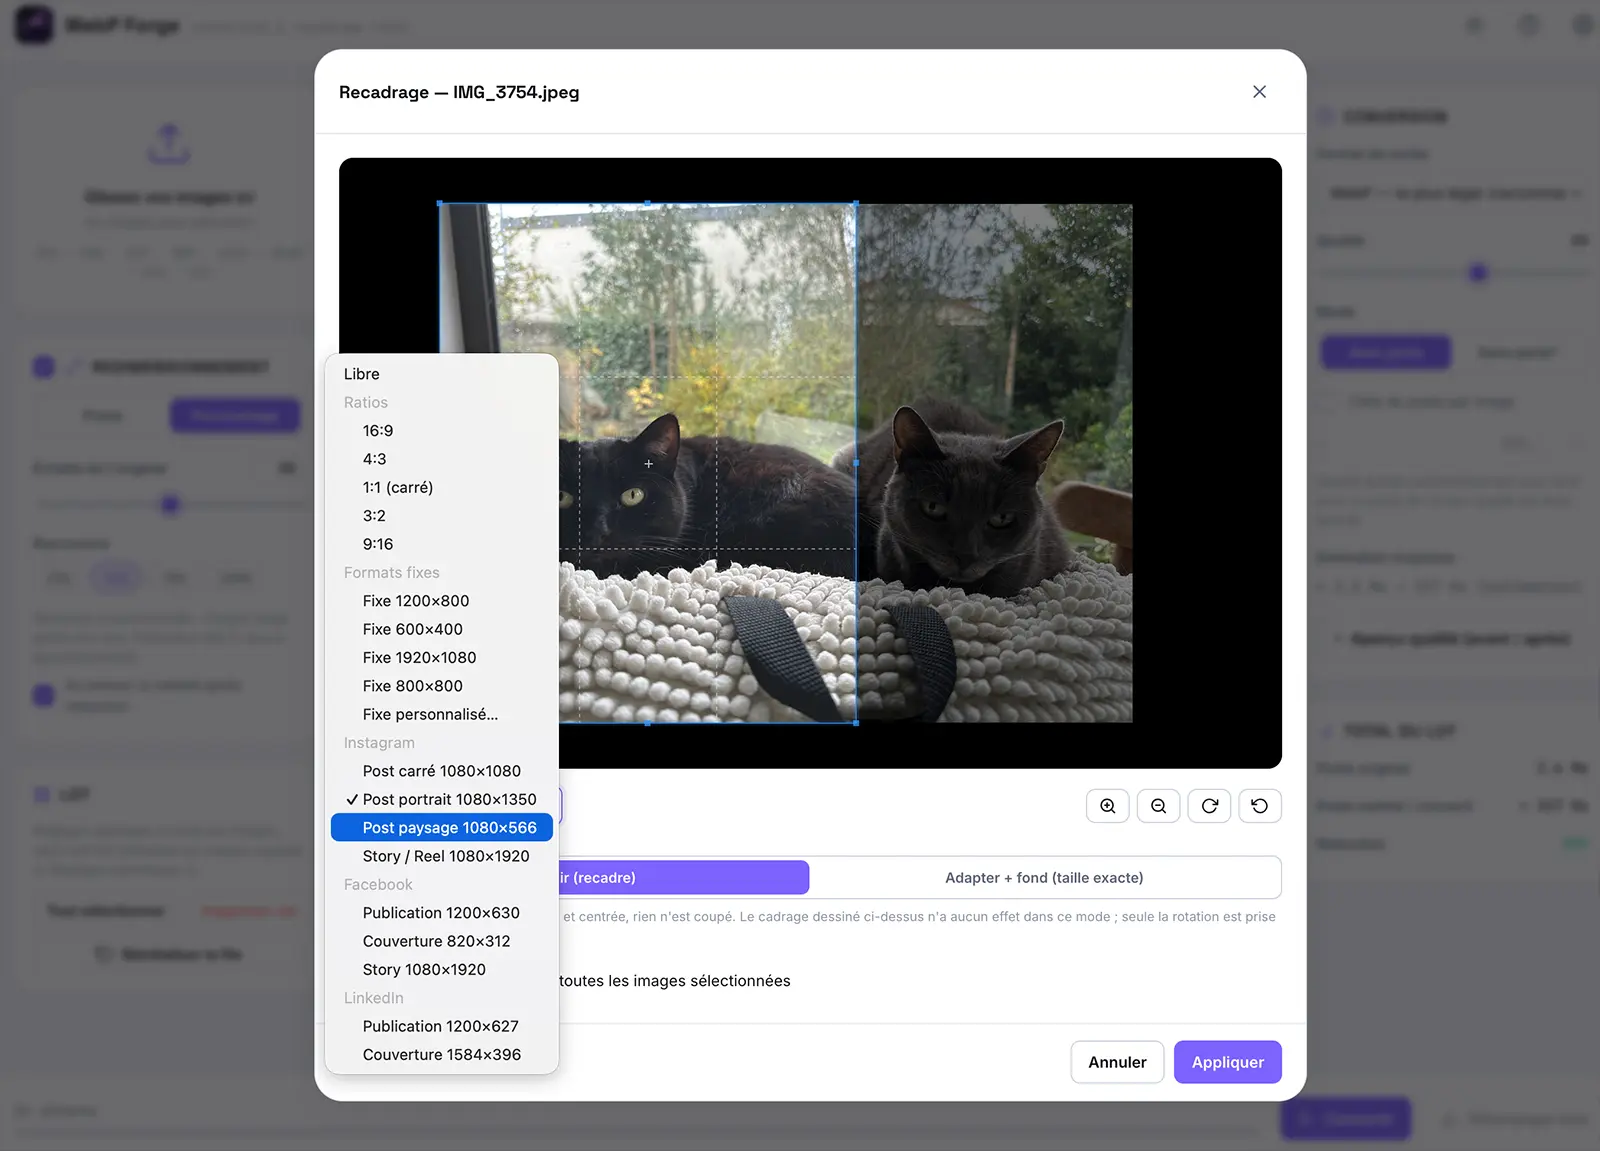
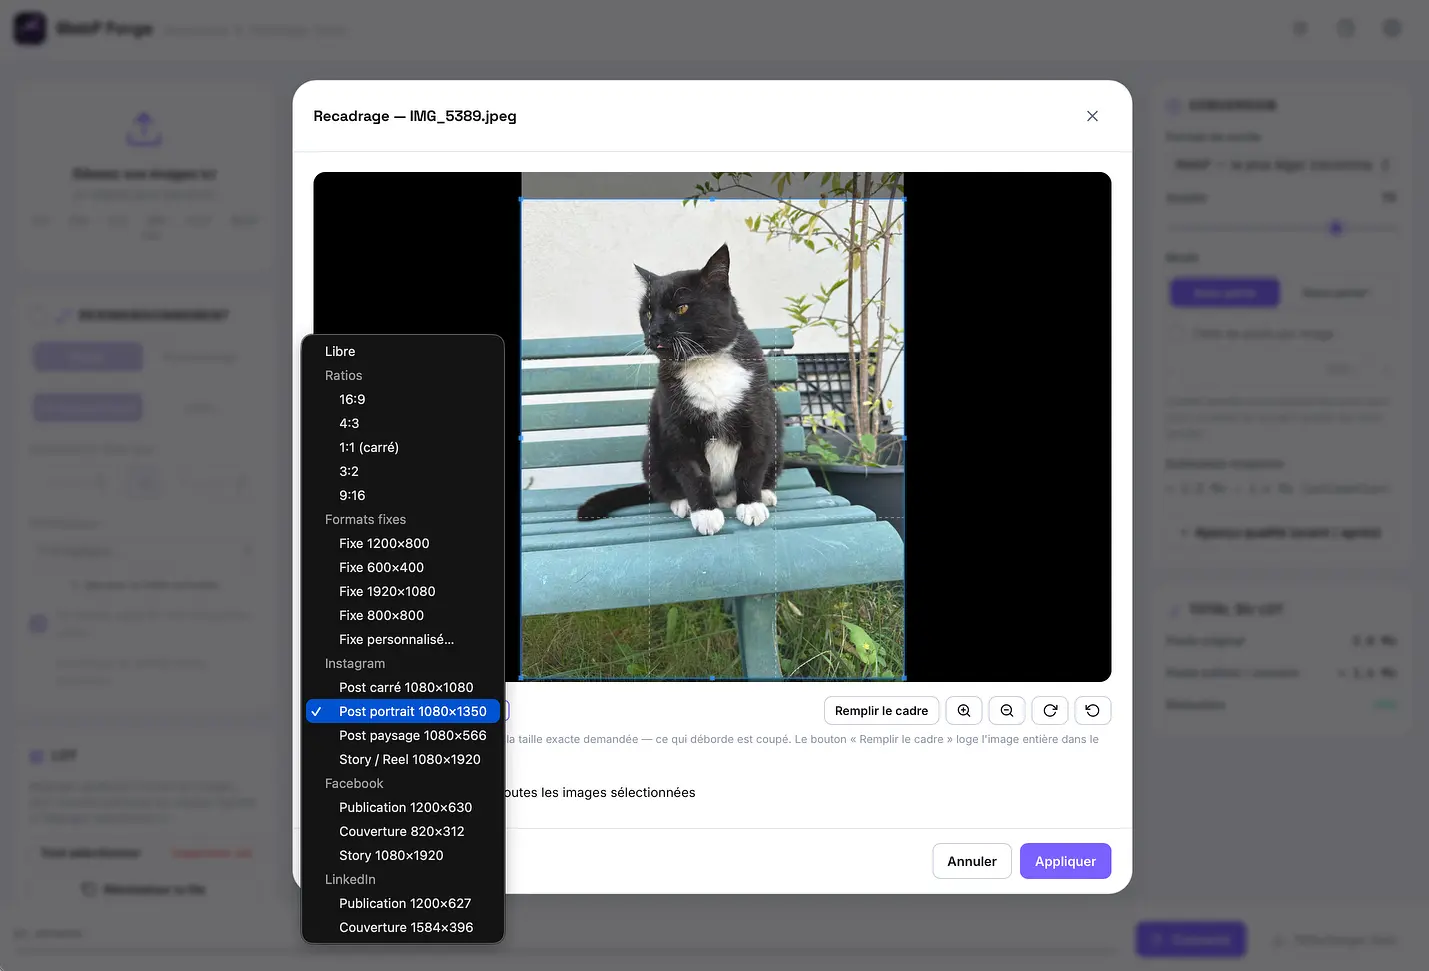
Recadrage : cadre libre par défaut et bouton « Remplir le cadre »
Choisir un format fixe ne fixait que le ratio du cadre : l'image restait
à son zoom courant et rien ne bougeait à l'écran, d'où l'impression que
les boutons de comportement ne servaient à rien.

Le logement de l'image devient une action explicite plutôt qu'un
automatisme : la sélection d'un format laisse le déplacement et le zoom
entièrement libres, et « Remplir le cadre » remet l'image entière à
l'écran puis inscrit le cadre au ratio courant, centré, sans perdre la
rotation en cours.

Retire « Adapter + fond (taille exacte) » : le mode ignorait le cadre
affiché tout en le laissant manipulable, et les bandes ajoutées ne
servent pas la cible.

Capture 05 refaite sur la nouvelle fenêtre de recadrage.

diff --git a/webp-forge.html b/webp-forge.html
@@ -1258,6 +1258,7 @@ kbd.pin-kbd{ font-family:var(--font-mono); font-size:12px; background:var(--bg);
           </select>
         </div>
         <div class="crop-tool-group">
+          <button class="btn btn-sm" id="cropFill" title="Loger l'image entière dans le cadre — il ne reste qu'à la positionner">Remplir le cadre</button>
           <button class="btn btn-sm" id="cropZoomIn" title="Zoomer"><svg viewBox="0 0 24 24" fill="none" stroke="currentColor" stroke-width="2" stroke-linecap="round" stroke-linejoin="round"><circle cx="11" cy="11" r="8"/><line x1="21" y1="21" x2="16.65" y2="16.65"/><line x1="11" y1="8" x2="11" y2="14"/><line x1="8" y1="11" x2="14" y2="11"/></svg></button>
           <button class="btn btn-sm" id="cropZoomOut" title="Dézoomer"><svg viewBox="0 0 24 24" fill="none" stroke="currentColor" stroke-width="2" stroke-linecap="round" stroke-linejoin="round"><circle cx="11" cy="11" r="8"/><line x1="21" y1="21" x2="16.65" y2="16.65"/><line x1="8" y1="11" x2="14" y2="11"/></svg></button>
           <button class="btn btn-sm" id="cropRotate" title="Rotation 15°"><svg viewBox="0 0 24 24" fill="none" stroke="currentColor" stroke-width="2" stroke-linecap="round" stroke-linejoin="round"><path d="M23 4v6h-6"/><path d="M20.49 15a9 9 0 11-2.12-9.36L23 10"/></svg></button>
@@ -1275,25 +1276,8 @@ kbd.pin-kbd{ font-family:var(--font-mono); font-size:12px; background:var(--bg);
         </div>
         <div class="hint">Le fichier exporté fera exactement cette taille — le cadre suit ce ratio.</div>
       </div>
-      <div class="field fit-mode-row" id="cropFitModeRow" hidden>
-        <div class="field-label"><span>Comportement à taille fixe</span></div>
-        <div class="seg">
-          <button type="button" class="active" data-fit-mode="fill">Remplir (recadre)</button>
-          <button type="button" data-fit-mode="pad">Adapter + fond (taille exacte)</button>
-        </div>
-        <div class="dim-row" id="cropBgRow" hidden style="margin-top:10px">
-          <label style="display:flex;align-items:center;gap:8px;flex:1;font-size:12px;color:var(--text-dim)">
-            Couleur de fond
-            <input type="color" id="cropBgColor" class="color-swatch" value="#FFFFFF">
-          </label>
-          <label class="checkbox-row small" style="flex:0 0 auto;padding:0">
-            <input type="checkbox" id="cropBgTransparent">
-            <span class="chk"><svg viewBox="0 0 24 24" fill="none" stroke="currentColor" stroke-width="3" stroke-linecap="round" stroke-linejoin="round"><polyline points="20 6 9 17 4 12"/></svg></span>
-            <span class="lbl">Transparent</span>
-          </label>
-        </div>
-        <!-- Texte piloté par setFitMode() : il doit décrire le mode ACTIF, pas toujours "pad" -->
-        <div class="hint" id="cropFitHint"></div>
+      <div class="field" id="cropFixedHintRow" hidden>
+        <div class="hint">Le cadre est découpé puis exporté à la taille exacte demandée — ce qui déborde est coupé. Le bouton « Remplir le cadre » loge l'image entière dans le cadre, il ne reste qu'à la positionner.</div>
       </div>
       <label class="checkbox-row" id="cropApplyAllRow" style="margin-top:6px">
         <input type="checkbox" id="cropApplyAll">
@@ -1764,7 +1748,6 @@ var Module=typeof Module!="undefined"?Module:{};var readyPromiseResolve,readyPro
     cropper: null,          // instance CropperJS active dans la modale
     cropTargetItem: null,   // item de référence en cours de recadrage
     cropFixedDims: null,    // {w,h} si un mode "fixe" est sélectionné
-    cropFitMode: 'fill',    // 'fill' (recadre) | 'pad' (adapter + fond)
     previewItem: null,      // image de référence dans l'aperçu qualité
     previewToken: 0,        // jeton anti-concurrence pour les ré-encodages d'aperçu
     previewOrigScaledKey: null, // "WxH" si l'original affiché a déjà été réduit à ces dimensions
@@ -3042,20 +3025,31 @@ var Module=typeof Module!="undefined"?Module:{};var readyPromiseResolve,readyPro
   const cropDom = {
     overlay: $('#cropModal'), img: $('#cropImage'), title: $('#cropModalTitle'),
     ratioSelect: $('#cropRatioSelect'), applyAllRow: $('#cropApplyAllRow'), applyAllChk: $('#cropApplyAll'),
-    fitModeRow: $('#cropFitModeRow'), fitHint: $('#cropFitHint'), bgRow: $('#cropBgRow'), bgColor: $('#cropBgColor'), bgTransparent: $('#cropBgTransparent'),
+    fixedHintRow: $('#cropFixedHintRow'),
     customRow: $('#cropCustomRow'), customW: $('#cropCustomW'), customH: $('#cropCustomH'),
   };
 
-  function setFitMode(mode) {
-    state.cropFitMode = mode;
-    $$('#cropFitModeRow .seg button').forEach(b => b.classList.toggle('active', b.dataset.fitMode === mode));
-    cropDom.bgRow.hidden = mode !== 'pad';
-    cropDom.fitHint.textContent = mode === 'pad'
-      ? "La photo entière est mise à l'échelle et centrée, rien n'est coupé. Le cadrage dessiné ci-dessus n'a aucun effet dans ce mode ; seule la rotation est prise en compte."
-      : "Le cadre dessiné ci-dessus est découpé, puis exporté à la taille exacte demandée. Ce qui déborde du cadre est coupé.";
-    // Le zoom n'a aucun effet en mode "adapter" (photo entière, pas de sélection) : on le neutralise.
-    $('#cropZoomIn').disabled = mode === 'pad';
-    $('#cropZoomOut').disabled = mode === 'pad';
+  // « Remplir le cadre » (action volontaire, jamais automatique) : remet l'image entière
+  // à l'écran — zoom et déplacement annulés SANS toucher à la rotation (cropper.reset()
+  // la perdrait) — puis inscrit le cadre au ratio courant, le plus grand possible,
+  // centré sur la photo. Il ne reste qu'à positionner l'image ou le cadre.
+  function fillFrame() {
+    const cr = state.cropper;
+    if (!cr || !cr.ready) return; // avant `ready`, les méthodes Cropper sont des no-ops
+    // Cadre réduit d'abord : viewMode 1 interdit un canvas plus petit que le cadre.
+    cr.setCropBoxData({ width: 8, height: 8 });
+    const cont = cr.getContainerData();
+    let cv = cr.getCanvasData();
+    if (!cont.width || !cv.naturalWidth) return;
+    const scale = Math.min(cont.width / cv.naturalWidth, cont.height / cv.naturalHeight);
+    const w = cv.naturalWidth * scale, h = cv.naturalHeight * scale;
+    cr.setCanvasData({ left: (cont.width - w) / 2, top: (cont.height - h) / 2, width: w, height: h });
+    cv = cr.getCanvasData();
+    const dims = state.cropFixedDims;
+    const ratio = dims ? dims.w / dims.h : (cr.options.aspectRatio || cv.width / cv.height);
+    let bw = cv.width, bh = bw / ratio;
+    if (bh > cv.height) { bh = cv.height; bw = bh * ratio; }
+    cr.setCropBoxData({ left: cv.left + (cv.width - bw) / 2, top: cv.top + (cv.height - bh) / 2, width: bw, height: bh });
   }
 
   function openCropModal(item, isGlobal) {
@@ -3068,10 +3062,7 @@ var Module=typeof Module!="undefined"?Module:{};var readyPromiseResolve,readyPro
     cropDom.ratioSelect.value = 'free';
     cropDom.customRow.hidden = true;
     cropDom.customW.value = ''; cropDom.customH.value = '';
-    cropDom.fitModeRow.hidden = true;
-    cropDom.bgColor.value = '#FFFFFF';
-    cropDom.bgTransparent.checked = false;
-    setFitMode('fill');
+    cropDom.fixedHintRow.hidden = true;
     state.lastFocused = document.activeElement;
     cropDom.overlay.hidden = false;
     focusFirstIn(cropDom.overlay);
@@ -3102,6 +3093,7 @@ var Module=typeof Module!="undefined"?Module:{};var readyPromiseResolve,readyPro
   $('#cropZoomOut').addEventListener('click', () => state.cropper && state.cropper.zoom(-0.1));
   $('#cropRotate').addEventListener('click', () => state.cropper && state.cropper.rotate(15));
   $('#cropReset').addEventListener('click', () => state.cropper && state.cropper.reset());
+  $('#cropFill').addEventListener('click', fillFrame);
   $('#cropClear').addEventListener('click', () => {
     const item = state.cropTargetItem; if (!item) return;
     item.croppedSourceBlob = null; item.cropLabel = null;
@@ -3124,8 +3116,7 @@ var Module=typeof Module!="undefined"?Module:{};var readyPromiseResolve,readyPro
       state.cropper.setAspectRatio(a / b);
       state.cropFixedDims = null;
     }
-    cropDom.fitModeRow.hidden = !state.cropFixedDims;
-    if (!state.cropFixedDims) setFitMode('fill');
+    cropDom.fixedHintRow.hidden = !state.cropFixedDims;
   });
 
   // Mode "Fixe personnalisé" : taille de sortie exacte saisie à la main, façon
@@ -3142,8 +3133,7 @@ var Module=typeof Module!="undefined"?Module:{};var readyPromiseResolve,readyPro
       state.cropper.setAspectRatio(NaN);
       state.cropFixedDims = null;
     }
-    cropDom.fitModeRow.hidden = !state.cropFixedDims;
-    if (!state.cropFixedDims) setFitMode('fill');
+    cropDom.fixedHintRow.hidden = !state.cropFixedDims;
   }
   [cropDom.customW, cropDom.customH].forEach(input => {
     input.addEventListener('input', () => {
@@ -3151,103 +3141,37 @@ var Module=typeof Module!="undefined"?Module:{};var readyPromiseResolve,readyPro
     });
   });
 
-  $$('#cropFitModeRow .seg button').forEach(btn => {
-    btn.addEventListener('click', () => setFitMode(btn.dataset.fitMode));
-  });
-  cropDom.bgTransparent.addEventListener('change', () => {
-    cropDom.bgColor.disabled = cropDom.bgTransparent.checked;
-  });
-
-  // Construit un canvas de taille EXACTE targetW×targetH : la photo entière est mise à
-  // l'échelle (contain, avec rotation prise en compte) puis centrée sur un fond uni
-  // (ou transparent). Rien n'est jamais coupé — c'est l'inverse du recadrage "Remplir".
-  function buildPaddedCanvas(imgEl, rotateDeg, targetW, targetH, bgColor, transparent) {
-    const rad = (rotateDeg || 0) * Math.PI / 180;
-    const srcW = imgEl.naturalWidth, srcH = imgEl.naturalHeight;
-    const absCos = Math.abs(Math.cos(rad)), absSin = Math.abs(Math.sin(rad));
-    const boundW = srcW * absCos + srcH * absSin;
-    const boundH = srcW * absSin + srcH * absCos;
-    const canvas = document.createElement('canvas');
-    canvas.width = targetW; canvas.height = targetH;
-    const ctx = canvas.getContext('2d');
-    if (!transparent) { ctx.fillStyle = bgColor; ctx.fillRect(0, 0, targetW, targetH); }
-    const scale = Math.min(targetW / boundW, targetH / boundH);
-    const drawW = srcW * scale, drawH = srcH * scale;
-    ctx.save();
-    ctx.translate(targetW / 2, targetH / 2);
-    ctx.rotate(rad);
-    ctx.imageSmoothingEnabled = true; ctx.imageSmoothingQuality = 'high';
-    ctx.drawImage(imgEl, -drawW / 2, -drawH / 2, drawW, drawH);
-    ctx.restore();
-    return canvas;
-  }
-
-  function loadImageEl(url) {
-    return new Promise((resolve, reject) => {
-      const img = new Image();
-      img.onload = () => resolve(img);
-      img.onerror = () => reject(new Error('décodage impossible'));
-      img.src = url;
-    });
-  }
-
   $('#cropApply').addEventListener('click', async () => {
     const ref = state.cropTargetItem;
     if (!ref || !state.cropper) return;
     const applyAll = cropDom.applyAllChk.checked;
     const fixed = state.cropFixedDims;
-    const fitMode = fixed ? state.cropFitMode : 'fill';
     const btn = $('#cropApply'); btn.disabled = true; btn.textContent = 'Application…';
 
     try {
-      if (fitMode === 'pad') {
-        // Mode "Adapter + fond" : pas de découpe, sortie garantie à fixed.w × fixed.h.
-        const rotate = state.cropper.getData().rotate || 0;
-        const bgColor = cropDom.bgColor.value;
-        const transparent = cropDom.bgTransparent.checked;
+      // Extraction directe via CropperJS ; à taille fixe, la sortie fait exactement fixed.w × fixed.h.
+      const refCanvas = state.cropper.getCroppedCanvas(fixed ? { width: fixed.w, height: fixed.h, imageSmoothingQuality: 'high' } : { imageSmoothingQuality: 'high' });
+      const refBlob = await new Promise(res => refCanvas.toBlob(res, 'image/png'));
+      await setItemCrop(ref, refBlob, fixed);
 
-        const refCanvas = buildPaddedCanvas(cropDom.img, rotate, fixed.w, fixed.h, bgColor, transparent);
-        const refBlob = await new Promise(res => refCanvas.toBlob(res, 'image/png'));
-        await setItemCrop(ref, refBlob, fixed, 'pad');
+      if (applyAll) {
+        const data = state.cropper.getData(); // coordonnées dans l'image ORIGINALE (non tournée)
+        const rx = data.x / ref.naturalWidth, ry = data.y / ref.naturalHeight;
+        const rw = data.width / ref.naturalWidth, rh = data.height / ref.naturalHeight;
+        const targets = (state.queue.some(i => i.selected) ? state.queue.filter(i => i.selected) : state.queue)
+          .filter(i => i.id !== ref.id);
 
-        if (applyAll) {
-          const targets = (state.queue.some(i => i.selected) ? state.queue.filter(i => i.selected) : state.queue)
-            .filter(i => i.id !== ref.id);
-          toast(`Application du recadrage à ${targets.length} image(s)…`, 'success');
-          for (const it of targets) {
-            try {
-              const imgEl = await loadImageEl(it.objectUrl);
-              const canvas = buildPaddedCanvas(imgEl, rotate, fixed.w, fixed.h, bgColor, transparent);
-              const blob = await new Promise(res => canvas.toBlob(res, 'image/png'));
-              await setItemCrop(it, blob, fixed, 'pad');
-            } catch (e) { console.error('Adaptation échouée pour', it.name, e); }
-          }
-        }
-      } else {
-        // Mode "Remplir" (comportement historique) : extraction directe via CropperJS.
-        const refCanvas = state.cropper.getCroppedCanvas(fixed ? { width: fixed.w, height: fixed.h, imageSmoothingQuality: 'high' } : { imageSmoothingQuality: 'high' });
-        const refBlob = await new Promise(res => refCanvas.toBlob(res, 'image/png'));
-        await setItemCrop(ref, refBlob, fixed);
-
-        if (applyAll) {
-          const data = state.cropper.getData(); // coordonnées dans l'image ORIGINALE (non tournée)
-          const rx = data.x / ref.naturalWidth, ry = data.y / ref.naturalHeight;
-          const rw = data.width / ref.naturalWidth, rh = data.height / ref.naturalHeight;
-          const targets = (state.queue.some(i => i.selected) ? state.queue.filter(i => i.selected) : state.queue)
-            .filter(i => i.id !== ref.id);
-
-          toast(`Application du recadrage à ${targets.length} image(s)…`, 'success');
-          for (const it of targets) {
-            const scaled = {
-              x: rx * it.naturalWidth, y: ry * it.naturalHeight,
-              width: rw * it.naturalWidth, height: rh * it.naturalHeight,
-              rotate: data.rotate, scaleX: data.scaleX, scaleY: data.scaleY,
-            };
-            try {
-              const blob = await cropOtherImage(it, scaled, fixed);
-              await setItemCrop(it, blob, fixed);
-            } catch (e) { console.error('Crop échoué pour', it.name, e); }
-          }
+        toast(`Application du recadrage à ${targets.length} image(s)…`, 'success');
+        for (const it of targets) {
+          const scaled = {
+            x: rx * it.naturalWidth, y: ry * it.naturalHeight,
+            width: rw * it.naturalWidth, height: rh * it.naturalHeight,
+            rotate: data.rotate, scaleX: data.scaleX, scaleY: data.scaleY,
+          };
+          try {
+            const blob = await cropOtherImage(it, scaled, fixed);
+            await setItemCrop(it, blob, fixed);
+          } catch (e) { console.error('Crop échoué pour', it.name, e); }
         }
       }
       closeCropModal();
@@ -3283,9 +3207,9 @@ var Module=typeof Module!="undefined"?Module:{};var readyPromiseResolve,readyPro
     item.thumbUrl = url;
   }
 
-  async function setItemCrop(item, blob, fixed, fitMode) {
+  async function setItemCrop(item, blob, fixed) {
     item.croppedSourceBlob = blob;
-    item.cropLabel = fixed ? `${fixed.w}×${fixed.h}${fitMode === 'pad' ? ' (fond)' : ''}` : 'libre';
+    item.cropLabel = fixed ? `${fixed.w}×${fixed.h}` : 'libre';
     // Sans ça la carte garde la vignette d'origine : le recadrage paraît sans effet.
     try { swapThumb(item, await buildThumbUrl(blob)); }
     catch (e) { console.error('Vignette de recadrage impossible pour', item.name, e); }